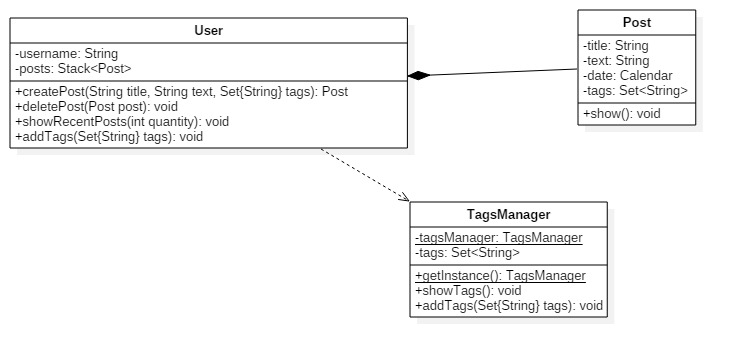
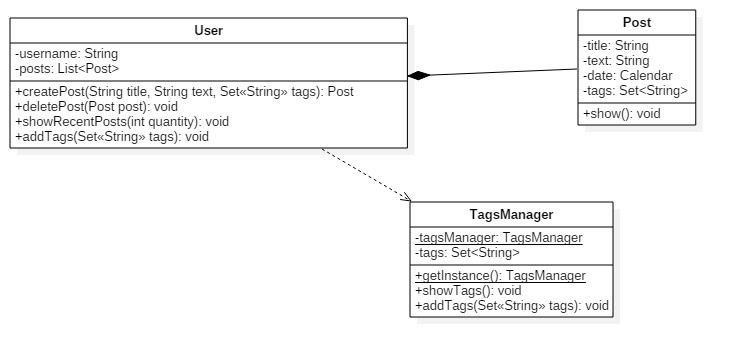
Small changes in blogging app

diff --git a/Day 2/blogging/src/main/java/com/bootcamp/app/User.java b/Day 2/blogging/src/main/java/com/bootcamp/app/User.java
@@ -1,36 +1,32 @@
 package com.bootcamp.app;
 
+import java.util.ArrayList;
 import java.util.Iterator;
+import java.util.List;
 import java.util.Set;
-import java.util.SortedSet;
-import java.util.TreeSet;
 
 public class User {
-	
+
 	private String username;
-	private SortedSet<Post> posts = new TreeSet<>();
-	
+	private List<Post> posts = new ArrayList<>();
+
 	public User(String username) {
 		this.username = username;
 	}
-	
+
 	public Post createPost(String title, String text, Set<String> tags) {
 		Post post = new Post(title, text, tags);
-		posts.add(post);
+		posts.add(0, post);;
 		if (tags != null) {
 			addTags(tags);
 		}
 		return post;
 	}
-	
+
 	public void deletePost(Post post) {
-		if (posts.remove(post)) {
-			System.out.println("Post deleted.");
-		} else {
-			System.out.println("Post wasn't deleted");
-		}
+		posts.remove(post);
 	}
-	
+
 	public void showRecentPosts(int quantity) {
 		Iterator<Post> it = posts.iterator();
 		for (int i = 0; i < quantity; i++) {
@@ -40,11 +36,11 @@ public class User {
 			it.next().show();
 		}
 	}
-	
+
 	public void addTags(Set<String> tags) {
-		TagsManager.getInstance().addTags(tags);		
+		TagsManager.getInstance().addTags(tags);
 	}
-	
+
 	/* *** GETTERS & SETTERS *** */
 
 	public String getUsername() {
@@ -55,11 +51,11 @@ public class User {
 		this.username = username;
 	}
 
-	public SortedSet<Post> getPosts() {
+	public List<Post> getPosts() {
 		return posts;
 	}
 
-	public void setPosts(SortedSet<Post> posts) {
+	public void setPosts(List<Post> posts) {
 		this.posts = posts;
 	}
 }
